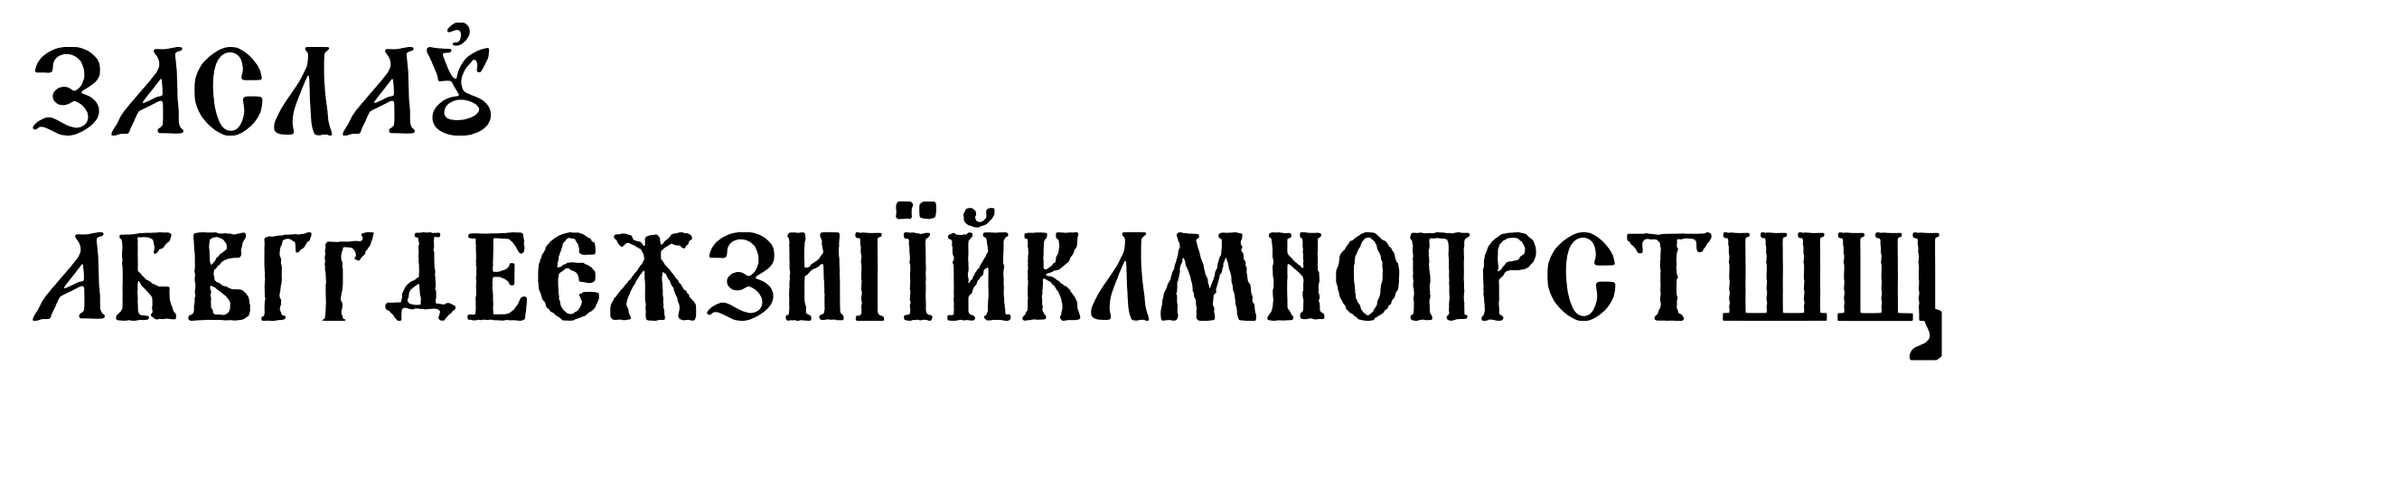
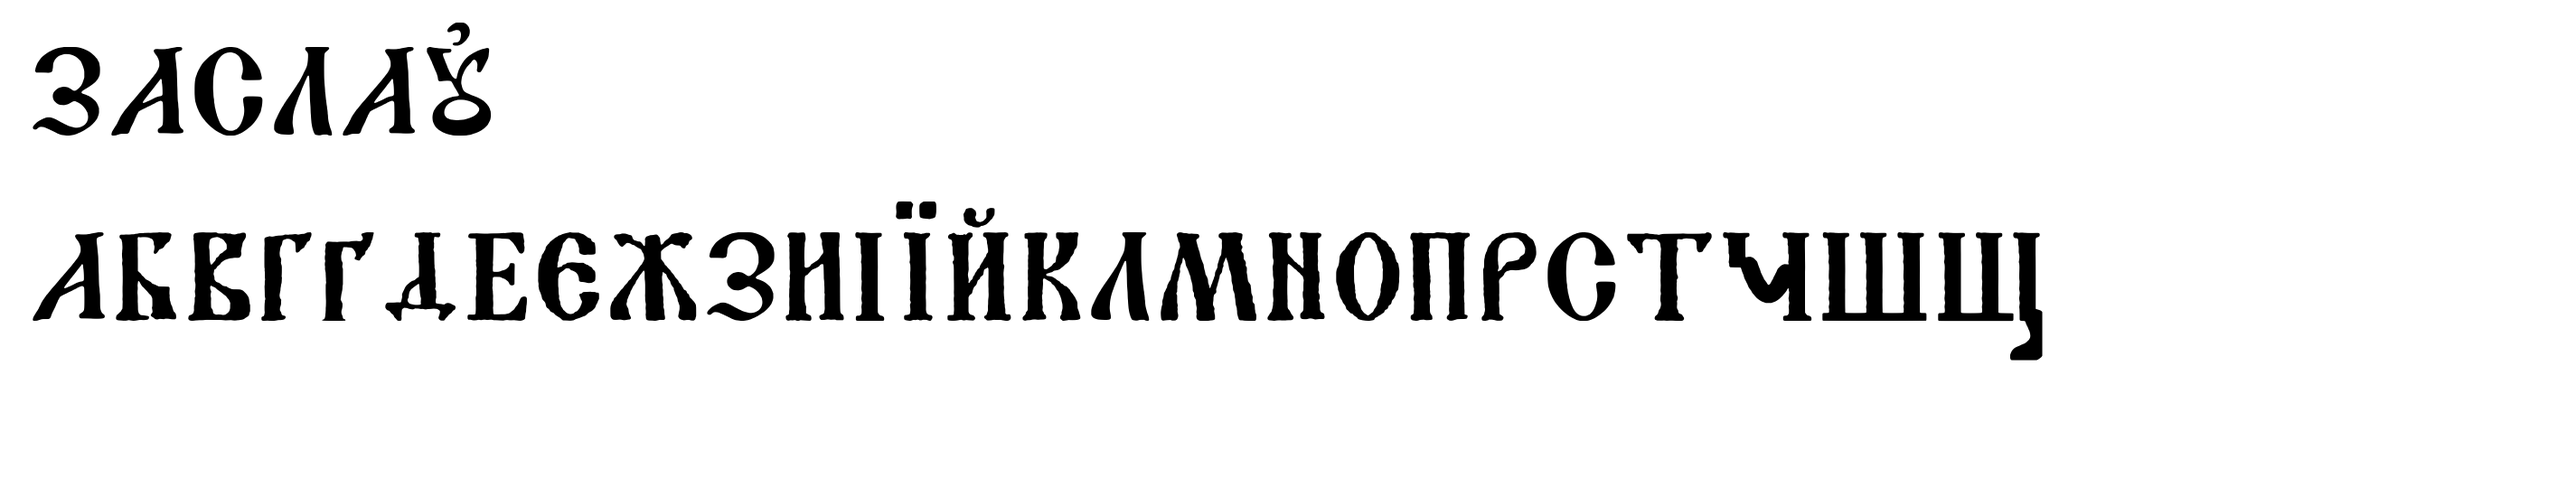
Add Ч (constructed glyph) — v1.4, 27 uppercase letters

Changed region(s): [[0.0, 0.4148, 0.8355, 0.7407], [0.0, 0.0296, 0.2166, 0.2963]]

diff --git a/demo.html b/demo.html
@@ -42,13 +42,13 @@
 </head>
 <body>
   <h1>ЗАСЛАЎ</h1>
-  <div class="alphabet">АБВГҐДЕЄЖЗИІЇЙКЛМНОПРСТШЩ</div>
+  <div class="alphabet">АБВГҐДЕЄЖЗИІЇЙКЛМНОПРСТЧШЩ</div>
 
   <div class="note">
-    Draft v1.3 — 26 uppercase glyphs. Ш/Щ are constructed, not traced (see README).
+    Draft v1.4 — 27 uppercase glyphs. Ш/Щ/Ч are constructed, not traced (see README).
     Note: Ґ's top hook was clipped at the edge of the source scan, so its tip is flat
     rather than pointed — worth a cleaner source or manual touch-up later.
-    Still missing: У Ф Х Ц Ч Ь Ю Я and lowercase.
+    Still missing: У Ф Х Ц Ь Ю Я and lowercase.
     Use in CSS with: <code>font-family: "Zaslav Display", serif;</code>
   </div>
 </body>

diff --git a/README.md b/README.md
@@ -9,18 +9,18 @@ built into real font files with [fontTools](https://github.com/fonttools/fonttoo
 
 ## Status
 
-**v1.3 — 26 uppercase glyphs:**
+**v1.4 — 27 uppercase glyphs:**
 
 ```
-А Б В Г Ґ Д Е Є Ж З И І Ї Й К Л М Н О П Р С Т Ў Ш Щ
+А Б В Г Ґ Д Е Є Ж З И І Ї Й К Л М Н О П Р С Т Ў Ч Ш Щ
 ```
 
-`Ш` and `Щ` weren't in either source image — they're constructed from the
-same stem/serif shapes as `І`. `Щ`'s descender tail was redrawn to match a
-reference the user provided, then everything is run through the same trace
-pipeline as the rest of the glyphs for a consistent texture.
+`Ш`, `Щ` and `Ч` weren't in either source image — they're constructed from
+the same stem/serif shapes as `І`. `Щ`'s descender tail and `Ч`'s bowl were
+drawn to match a reference the user provided, then everything is run through
+the same trace pipeline as the rest of the glyphs for a consistent texture.
 
-Still missing: `У Ф Х Ц Ч Ь Ю Я` and all lowercase letters.
+Still missing: `У Ф Х Ц Ь Ю Я` and all lowercase letters.
 More glyphs get added as source material comes in.
 
 ## Files
